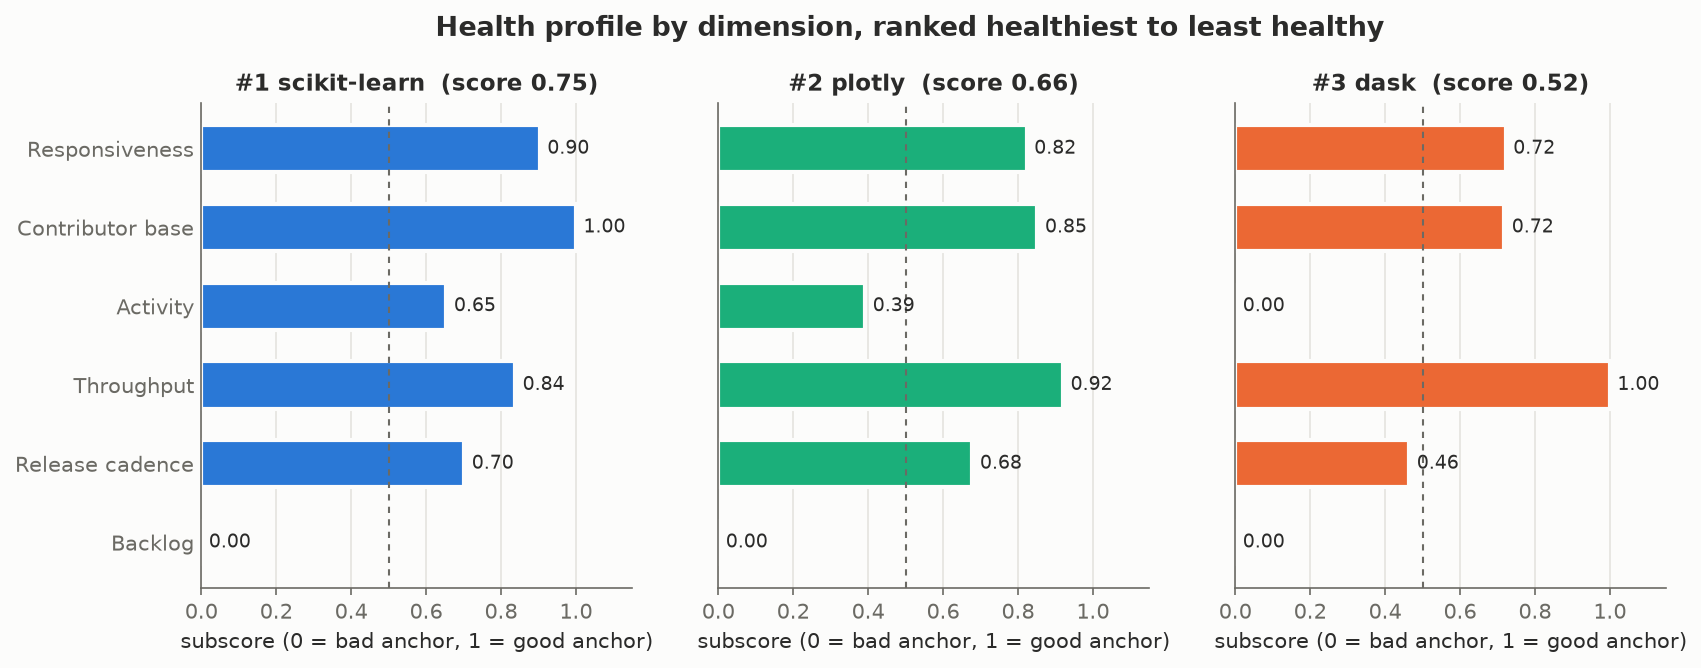
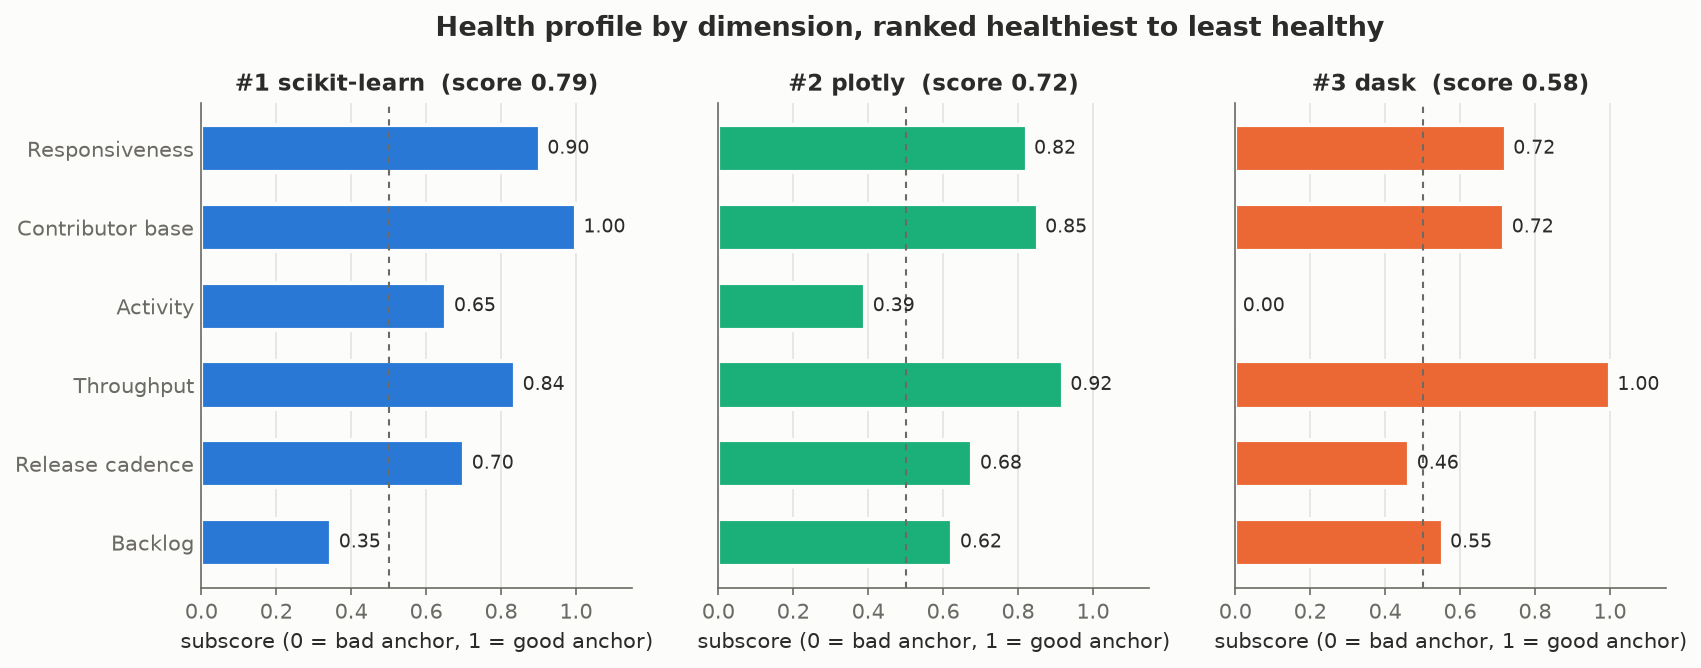
fix: stale_open_share over all open PRs (rubric definition)
Over the full window, about 75% of the open PRs that are 180+ days old are stale
in all three repos. All three passed the 0.5 bad anchor, so backlog scored 0 for every repo.
The rubric definition (all open PRs) separates them: dask 0.22, plotly 0.19, sklearn 0.33.
The anchors are unchanged. Plots are regenerated from the full run.

diff --git a/health_model.py b/health_model.py
@@ -57,9 +57,9 @@ METRICS = [
            720, 24, log_scale=True,
            reason="Merged within a day is fast; a typical 30-day wait is slow."),
     Metric("stale_open_share", "backlog",
-           "Share of open human PRs old enough to go stale (created 180+ days ago) "
-           "with no update in 180 days.", 0.5, 0.0,
-           reason="No abandoned PRs is ideal; half of the old open PRs abandoned = overwhelmed."),
+           "Share of open human PRs with no update in 180+ days (rubric definition).",
+           0.5, 0.0,
+           reason="No abandoned PRs is ideal; half of the open queue abandoned = overwhelmed."),
     Metric("commit_trend_pct", "activity",
            "Slope of monthly human commits over complete months / mean monthly commits "
            "(percent change per month; the trend component).", -0.05, 0.05,
